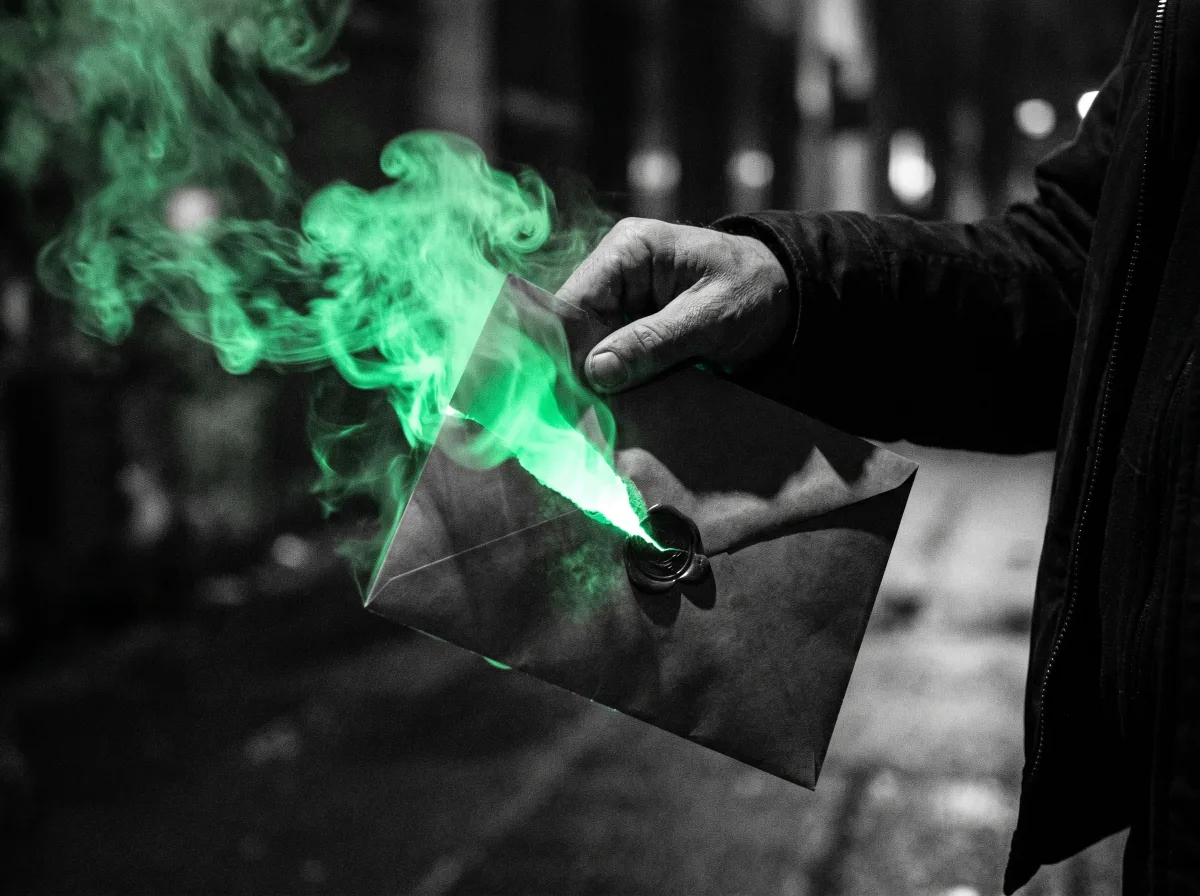
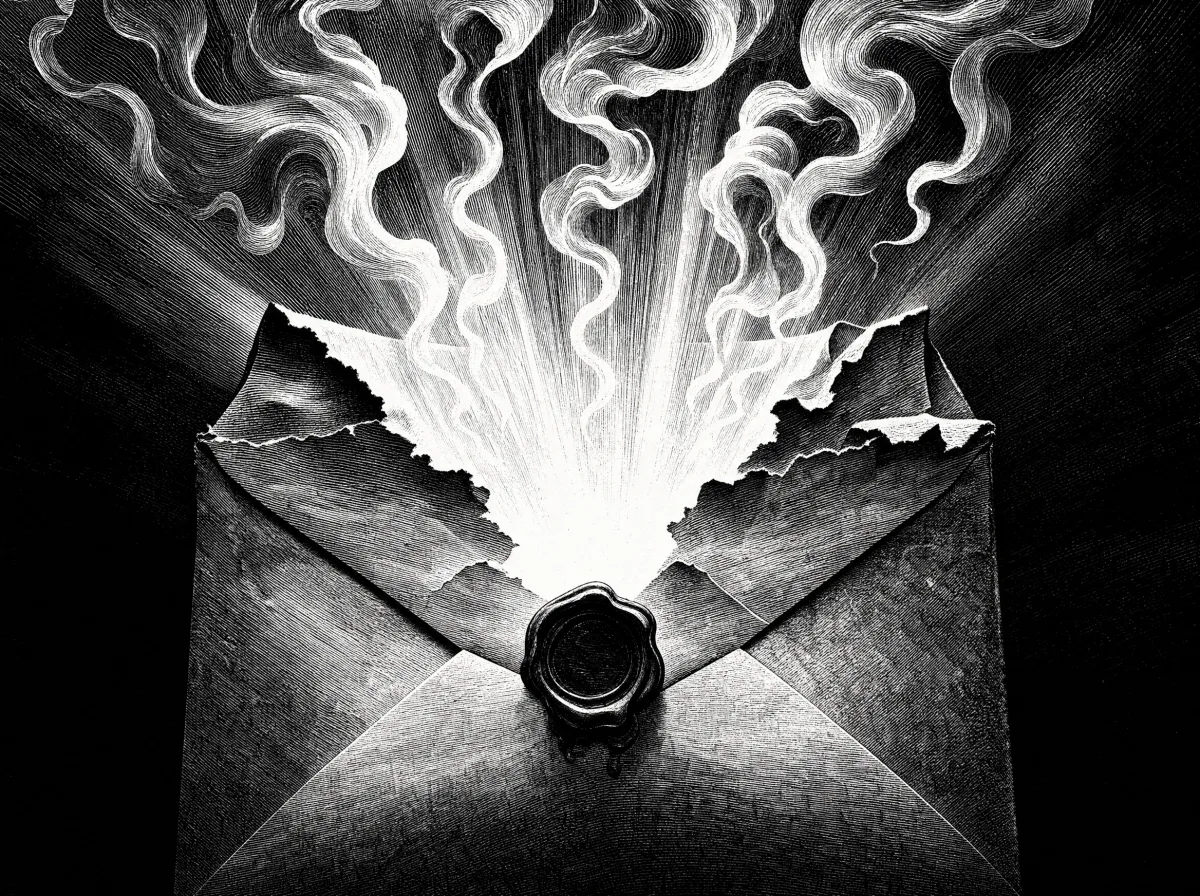
feat(home): regenerate story images 02/03/04 in woodcut style
- 02-seal.webp: brass stamp pressing wax seal onto chart
- 03-unlock.webp: torn envelope with light and smoke escaping
- 04-track.webp: archival folder stack with steel filing cabinet
- all three now match 01-analyst.webp aesthetic: editorial B&W
  woodcut illustration, heavy ink engraving, brutalist newspaper
  feel — no more photorealistic clash with the brand
- alt texts updated (no more "green" since palette is pure B&W)

diff --git a/web/src/app/page.tsx b/web/src/app/page.tsx
@@ -511,14 +511,16 @@ function CaseFileSection({ t }: { t: TFn }) {
       label: t("home.caseT1Label"),
       body: t("home.caseT1Body"),
       img: "/story/02-seal.webp",
-      imgAlt: "Wax seal in green being stamped onto a printed chart",
+      imgAlt:
+        "Editorial woodcut illustration — a hand pressing a brass stamp onto a wax seal over a printed chart",
     },
     {
       date: t("home.caseT2Date"),
       label: t("home.caseT2Label"),
       body: t("home.caseT2Body"),
       img: "/story/03-unlock.webp",
-      imgAlt: "Hand opening an envelope with green smoke escaping",
+      imgAlt:
+        "Editorial woodcut illustration — a wax-sealed envelope torn open with ribbons of light and smoke escaping",
     },
     {
       date: t("home.caseT3Date"),
@@ -526,7 +528,7 @@ function CaseFileSection({ t }: { t: TFn }) {
       body: t("home.caseT3Body"),
       img: "/story/04-track.webp",
       imgAlt:
-        "Stack of folders with timestamps stamped in green ink, evidence locker aesthetic",
+        "Editorial woodcut illustration — a stack of archival folders next to a steel filing cabinet, evidence locker aesthetic",
     },
   ];
 
